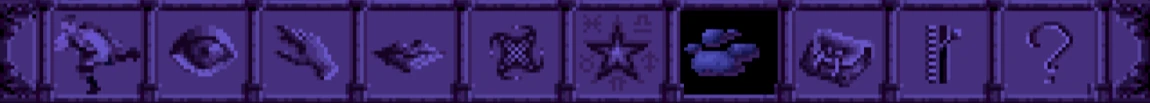
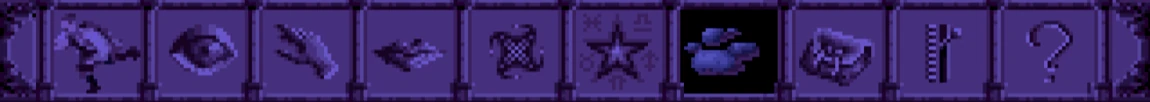
Edit CSS to remove excess space under toolbar
Edit style sheet to remove extra space between toolbar and main heading.

diff --git a/qfg1_stylesheet.css b/qfg1_stylesheet.css
@@ -612,7 +612,7 @@ h1 {
 	background-image: none;
     border: 25px solid transparent;
     border-image: url("qfg1-medium-text-box2.png") 30 30 fill;
-	top: 46px; 
+	top: 45px; 
 	left: 22%; 
 	height: 97px; 
 	width: 57%; 
@@ -648,7 +648,7 @@ li.othernavbar {
 }
 .offset {
 	position: relative; 
-	top: 143px; 
+	top: 142px; 
 }
 article {
 	background-color: transparent;
@@ -735,7 +735,7 @@ h1 {
     width: 51%; 
 	padding: 0.2em; 
 	position: absolute; 
-	top: 69px; 
+	top: 68px; 
 	left: 25%; 
 	height: 131px; 
 }
@@ -768,7 +768,7 @@ li.othernavbar {
 }
 .offset {
 	position: relative; 
-	top: 200px; 
+	top: 199px; 
 }
 article {
 	background-color: transparent;
@@ -858,7 +858,7 @@ h1 {
     margin: auto; 
     padding: 0em; 
 	position: absolute; 
-	top: 92px; 
+	top: 90px; 
     left: 26%; 
 	height: 131px;
 }
@@ -892,7 +892,7 @@ li.othernavbar {
 }
 .offset {
 	position: relative; 
-	top: 223px; 
+	top: 221px; 
 }
 article {
 	background-color: transparent;
@@ -918,7 +918,7 @@ h1 {
 	margin: auto; 
 	padding: 0em; 
 	position: absolute; 
-	top: 92px; 
+	top: 90px; 
 	left: 30%; 
 	height: 131px; 
 }

diff --git a/quest-for-glory1.html b/quest-for-glory1.html
@@ -45,7 +45,7 @@
 		$("#night-mode").click(function() {
 		    $("#day-mode").show();
 			$("#night-mode").hide();
-			$("#game-toolbar").attr("src", "qfg1-menu-bar-nighttime3.webp");
+			$("#game-toolbar").attr("src", "qfg1-menu-bar-nighttime4.webp");
 			$("footer").css("background-image", "url('qfg1-settings-menu-nighttime3.png')");
 			$("h1").css("border-image", "url('qfg1-short-text-box-nighttime3.png') 30 30 fill");
 			$(".btn").css("background-image", "url('qfg1-button-nighttime2.png')");
